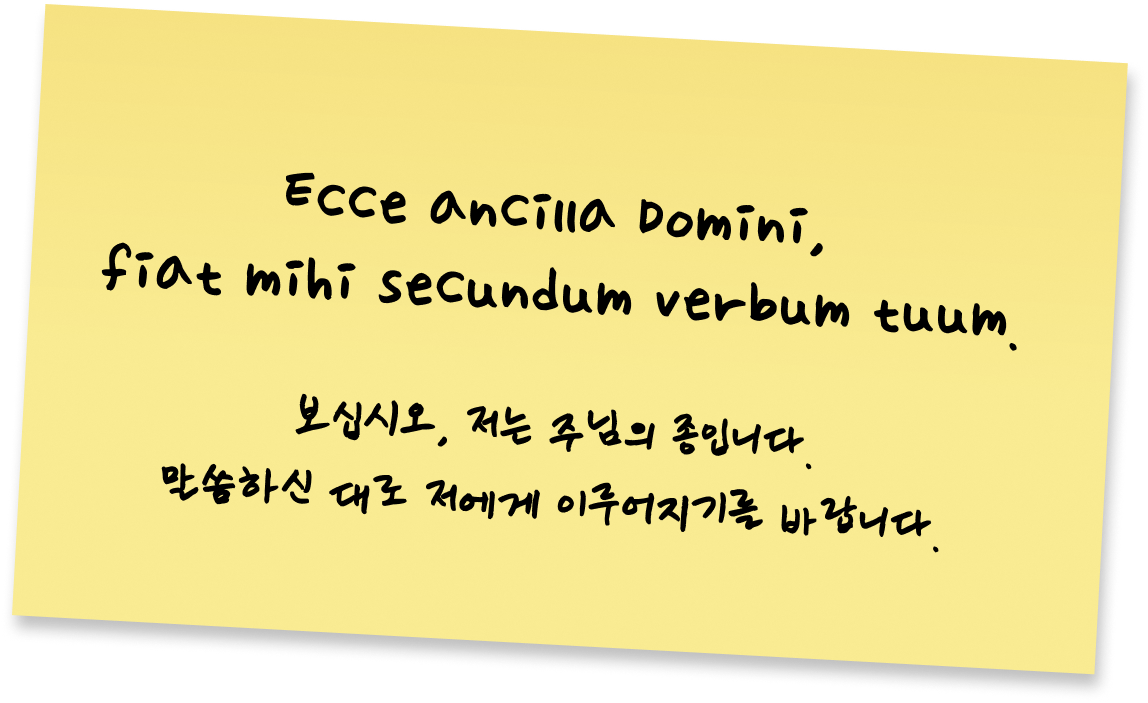
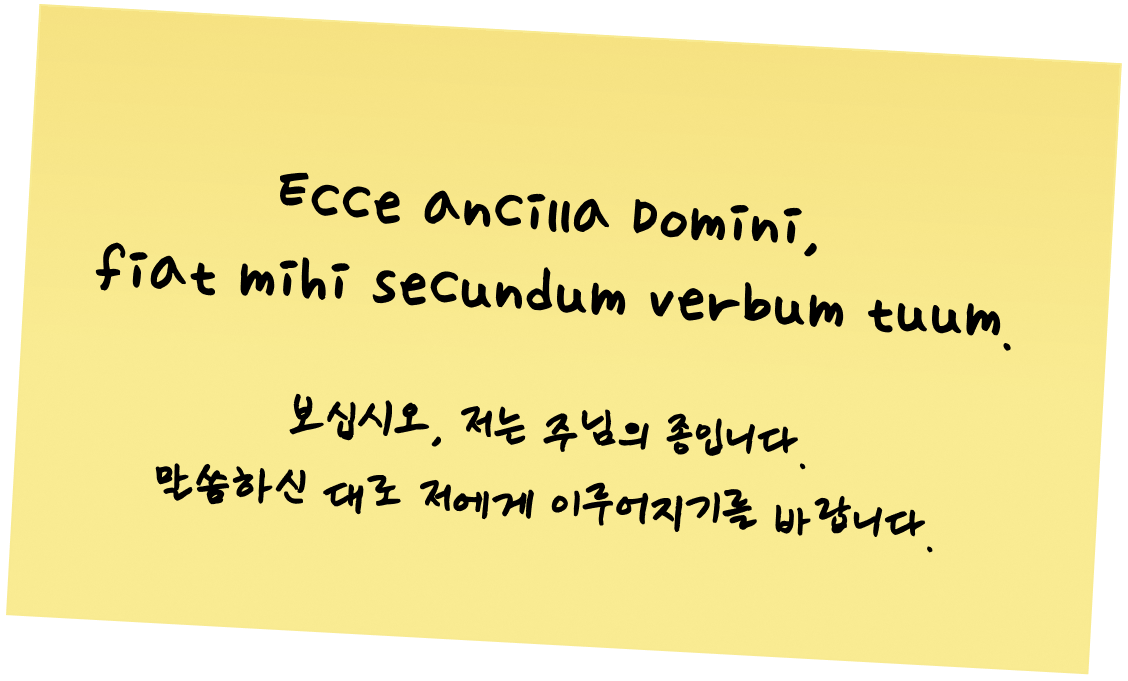
인물 카드 노란 메모지 전부 클릭해서 크게 보기, 확대 메모지 배경 투명화
- 측천무후·잔 다르크·장희빈·마리 앙투아네트·엘리자베트 카드의 노란 메모지도
  성모 마리아처럼 누르면 화면 가운데에 크게 뜨고, 아무 곳이나 누르면 닫힘
- 확대 메모지 이미지 배경(흰 여백·뒤 종이)을 투명하게 처리, 그림자는 CSS로
- 메모지 확대 공용 스타일을 folder-note-zoom.css 로 분리

Claude-Session: https://claude.ai/code/session_018NkL9VWcfC3Cdt4P5LoYh1

diff --git a/folder-women-people-royal-2.html b/folder-women-people-royal-2.html
@@ -9,6 +9,7 @@
     <link rel="stylesheet" href="https://cdn.jsdelivr.net/gh/orioncactus/pretendard@v1.3.9/dist/web/static/pretendard.min.css" />
 
     <link rel="stylesheet" href="folder-women-people-royal.css" />
+    <link rel="stylesheet" href="folder-note-zoom.css" />
     <link rel="stylesheet" href="glitch-effect.css" />
     <link rel="stylesheet" href="fonts.css" />
     <link rel="stylesheet" href="cursor.css" />
@@ -65,6 +66,13 @@
           src="images/folder-women-people-royal/card-marie-antoinette@2x.png?v=4"
           alt="마리 앙투아네트 자료 카드"
         />
+        <!-- 카드 아래 노란 메모지: 누르면 크게 보인다 -->
+        <button
+          type="button"
+          class="note-hotspot note-hotspot--marie-antoinette"
+          data-note-zoom="noteMarieOverlay"
+          aria-label="마리 앙투아네트 카드 메모지 크게 보기"
+        ></button>
         <a
           class="page-turn page-turn--prev"
           href="folder-women-people-royal.html"
@@ -78,11 +86,28 @@
           src="images/folder-women-people-royal/card-elisabeth@2x.png?v=4"
           alt="엘리자베트 자료 카드"
         />
+        <!-- 카드 아래 노란 메모지: 누르면 크게 보인다 -->
+        <button
+          type="button"
+          class="note-hotspot note-hotspot--elisabeth"
+          data-note-zoom="noteElisabethOverlay"
+          aria-label="엘리자베트 카드 메모지 크게 보기"
+        ></button>
       </div>
 
+      <!-- 마리 앙투아네트 카드 메모지 확대. 아무 곳이나 누르면 닫힌다 -->
+      <div class="note-overlay note-overlay--marie-antoinette" id="noteMarieOverlay" aria-hidden="true">
+        <img src="images/folder-women-people-royal/note-marie-antoinette@2x.png" alt="Qu'ils mangent de la brioche ! 그럼 그들에게 브리오슈를 먹으라고 하세요!" />
+      </div>
+
+      <!-- 엘리자베트 카드 메모지 확대. 아무 곳이나 누르면 닫힌다 -->
+      <div class="note-overlay note-overlay--elisabeth" id="noteElisabethOverlay" aria-hidden="true">
+        <img src="images/folder-women-people-royal/note-elisabeth@2x.png" alt="Ich bin eine Möwe von keinem Land, Meine Heimat nenne ich keinen Strand. 나는 어느 땅에도 속하지 않은 갈매기, 어떤 해안도 고향이라 부르지 않는다." />
+      </div>
     </div>
 
     <script src="glitch-effect.js"></script>
     <script src="folder-scale.js"></script>
+    <script src="folder-note-zoom.js"></script>
   </body>
 </html>

diff --git a/folder-women-people-religion.css b/folder-women-people-religion.css
@@ -220,20 +220,11 @@ body {
   left: 547.5px;
 }
 
-/* ---------- 카드 위 메모지: 누르면 크게 ---------- */
-/* 성모 마리아 카드(wrap 641x908, 카드는 12.5px 안쪽에서 시작) 안의 노란 메모지 자리.
+/* ---------- 카드 위 메모지: 누르면 크게 (공용 스타일은 folder-note-zoom.css) ----------
+   클릭 영역은 카드 이미지 속 노란 메모지 자리(카드 wrap 기준 좌표).
+   확대 이미지 폭은 모든 메모지가 같은 배율로 보이도록 맞춘 값. */
+/* 성모 마리아 카드(wrap 641x908, 카드는 12.5px 안쪽에서 시작) 안의 메모지.
    Figma 메모지 Frame 330: 카드 기준 x 49.36, y 682, 278.96 x 167.58 */
-.note-hotspot {
-  position: absolute;
-  z-index: 5;
-  margin: 0;
-  padding: 0;
-  background: none;
-  border: none;
-  cursor: pointer;
-  pointer-events: auto; /* wrap은 pointer-events: none 이라 여기서만 다시 켠다 */
-}
-
 .note-hotspot--ecce {
   left: 61.86px;
   top: 694.5px;
@@ -241,24 +232,18 @@ body {
   height: 167.58px;
 }
 
-.note-overlay {
-  position: absolute;
-  z-index: 50;
-  inset: 0;
-  display: none;
-  align-items: center;
-  justify-content: center;
-  background: rgba(0, 0, 0, 0.6);
-  cursor: pointer;
+/* 잔 다르크 카드(religion-2 왼쪽) 서명 메모지 */
+.note-hotspot--jeanne-darc {
+  left: 414.5px;
+  top: 715.5px;
+  width: 166px;
+  height: 161.5px;
 }
 
-.note-overlay.is-open {
-  display: flex;
+.note-overlay--ecce img {
+  width: 1081px;
 }
 
-.note-overlay img {
-  display: block;
-  width: 1100px;
-  height: auto;
-  filter: drop-shadow(8px 8px 10px rgba(0, 0, 0, 0.35));
+.note-overlay--jeanne-darc img {
+  width: 665px;
 }

diff --git a/folder-women-people-politics.html b/folder-women-people-politics.html
@@ -9,6 +9,7 @@
     <link rel="stylesheet" href="https://cdn.jsdelivr.net/gh/orioncactus/pretendard@v1.3.9/dist/web/static/pretendard.min.css" />
 
     <link rel="stylesheet" href="folder-women-people-politics.css" />
+    <link rel="stylesheet" href="folder-note-zoom.css" />
     <link rel="stylesheet" href="glitch-effect.css" />
     <link rel="stylesheet" href="fonts.css" />
     <link rel="stylesheet" href="cursor.css" />
@@ -74,12 +75,24 @@
           src="images/folder-women-people-politics/card-wuzetian@2x.png?v=4"
           alt="측천무후 자료 카드"
         />
+        <!-- 카드 아래 노란 메모지: 누르면 크게 보인다 -->
+        <button
+          type="button"
+          class="note-hotspot note-hotspot--wuzetian"
+          data-note-zoom="noteWuzetianOverlay"
+          aria-label="측천무후 카드 메모지 크게 보기"
+        ></button>
         <a class="page-turn page-turn--next" href="folder-women-people-politics-2.html" aria-label="다음 장"></a>
       </div>
 
+      <!-- 측천무후 카드 메모지 확대. 아무 곳이나 누르면 닫힌다 -->
+      <div class="note-overlay note-overlay--wuzetian" id="noteWuzetianOverlay" aria-hidden="true">
+        <img src="images/folder-women-people-politics/note-wuzetian@2x.png" alt="말이 말을 듣지 않으면 쇠채찍으로 때리고, 그래도 듣지 않으면 쇠망치로 머리를 내리치며, 끝까지 복종하지 않으면 비수로 목을 베어버리면 됩니다" />
+      </div>
     </div>
 
     <script src="glitch-effect.js"></script>
     <script src="folder-scale.js"></script>
+    <script src="folder-note-zoom.js"></script>
   </body>
 </html>

diff --git a/folder-women-people-royal.html b/folder-women-people-royal.html
@@ -9,6 +9,7 @@
     <link rel="stylesheet" href="https://cdn.jsdelivr.net/gh/orioncactus/pretendard@v1.3.9/dist/web/static/pretendard.min.css" />
 
     <link rel="stylesheet" href="folder-women-people-royal.css" />
+    <link rel="stylesheet" href="folder-note-zoom.css" />
     <link rel="stylesheet" href="glitch-effect.css" />
     <link rel="stylesheet" href="fonts.css" />
     <link rel="stylesheet" href="cursor.css" />
@@ -65,6 +66,13 @@
           src="images/folder-women-people-royal/card-janghuibin@2x.png?v=4"
           alt="장희빈 자료 카드"
         />
+        <!-- 카드 아래 노란 메모지: 누르면 크게 보인다 -->
+        <button
+          type="button"
+          class="note-hotspot note-hotspot--janghuibin"
+          data-note-zoom="noteJanghuibinOverlay"
+          aria-label="장희빈 카드 메모지 크게 보기"
+        ></button>
         <a
           class="page-turn page-turn--prev"
           href="folder-women-people-politics-2.html"
@@ -84,9 +92,14 @@
         ></a>
       </div>
 
+      <!-- 장희빈 카드 메모지 확대. 아무 곳이나 누르면 닫힌다 -->
+      <div class="note-overlay note-overlay--janghuibin" id="noteJanghuibinOverlay" aria-hidden="true">
+        <img src="images/folder-women-people-royal/note-janghuibin@2x.png" alt="내 폐비의 절을 받고 말리라" />
+      </div>
     </div>
 
     <script src="glitch-effect.js"></script>
     <script src="folder-scale.js"></script>
+    <script src="folder-note-zoom.js"></script>
   </body>
 </html>

diff --git a/folder-women-people-religion-2.html b/folder-women-people-religion-2.html
@@ -12,6 +12,7 @@
     />
 
     <link rel="stylesheet" href="folder-women-people-religion.css" />
+    <link rel="stylesheet" href="folder-note-zoom.css" />
     <link rel="stylesheet" href="glitch-effect.css" />
     <link rel="stylesheet" href="fonts.css" />
     <link rel="stylesheet" href="cursor.css" />
@@ -78,6 +79,13 @@
             src="images/folder-women-people-religion/card-jeanne-darc@2x.png?v=4"
             alt="잔 다르크 자료 카드"
           />
+          <!-- 카드 아래 노란 메모지: 누르면 크게 보인다 -->
+          <button
+            type="button"
+            class="note-hotspot note-hotspot--jeanne-darc"
+            data-note-zoom="noteJeanneOverlay"
+            aria-label="잔 다르크 카드 메모지 크게 보기"
+          ></button>
           <a
             class="page-turn page-turn--prev"
             href="folder-women-people-religion.html"
@@ -98,9 +106,15 @@
           ></a>
         </div>
       </div>
+
+      <!-- 잔 다르크 카드 메모지 확대. 아무 곳이나 누르면 닫힌다 -->
+      <div class="note-overlay note-overlay--jeanne-darc" id="noteJeanneOverlay" aria-hidden="true">
+        <img src="images/folder-women-people-religion/note-jeanne-darc@2x.png" alt="Jehanne — 잔 다르크의 서명" />
+      </div>
     </div>
 
     <script src="glitch-effect.js"></script>
     <script src="folder-scale.js"></script>
+    <script src="folder-note-zoom.js"></script>
   </body>
 </html>

diff --git a/folder-women-people-religion.html b/folder-women-people-religion.html
@@ -12,6 +12,7 @@
     />
 
     <link rel="stylesheet" href="folder-women-people-religion.css" />
+    <link rel="stylesheet" href="folder-note-zoom.css" />
     <link rel="stylesheet" href="glitch-effect.css" />
     <link rel="stylesheet" href="fonts.css" />
     <link rel="stylesheet" href="cursor.css" />
@@ -110,8 +111,8 @@
       </div>
 
       <!-- 메모지 확대 (Figma 2602:938). 아무 곳이나 누르면 닫힌다 -->
-      <div class="note-overlay" id="noteEcceOverlay" aria-hidden="true">
-        <img src="images/folder-women-people-religion/note-ecce-ancilla@4x.png" alt="Ecce ancilla Domini, fiat mihi secundum verbum tuum. 보십시오, 저는 주님의 종입니다. 말씀하신 대로 저에게 이루어지기를 바랍니다." />
+      <div class="note-overlay note-overlay--ecce" id="noteEcceOverlay" aria-hidden="true">
+        <img src="images/folder-women-people-religion/note-ecce-ancilla@4x.png?v=2" alt="Ecce ancilla Domini, fiat mihi secundum verbum tuum. 보십시오, 저는 주님의 종입니다. 말씀하신 대로 저에게 이루어지기를 바랍니다." />
       </div>
     </div>
 

diff --git a/folder-note-zoom.css b/folder-note-zoom.css
@@ -1,0 +1,35 @@
+/* 카드 위 노란 메모지(포스트잇) 확대 보기 — folder-note-zoom.js 와 같이 쓴다.
+   - .note-hotspot: 카드 wrap(pointer-events: none) 안에 얹는 투명 클릭 영역. 위치는 각 페이지 CSS에서 지정
+   - .note-overlay: 어두운 배경 + 큰 메모지 이미지. 메모지 PNG는 배경이 투명이라 그림자는 여기서 준다.
+     이미지 폭은 각 페이지 CSS의 .note-overlay--이름 img 에서 지정 */
+.note-hotspot {
+  position: absolute;
+  z-index: 5;
+  margin: 0;
+  padding: 0;
+  background: none;
+  border: none;
+  cursor: pointer;
+  pointer-events: auto; /* wrap은 pointer-events: none 이라 여기서만 다시 켠다 */
+}
+
+.note-overlay {
+  position: absolute;
+  z-index: 50;
+  inset: 0;
+  display: none;
+  align-items: center;
+  justify-content: center;
+  background: rgba(0, 0, 0, 0.6);
+  cursor: pointer;
+}
+
+.note-overlay.is-open {
+  display: flex;
+}
+
+.note-overlay img {
+  display: block;
+  height: auto;
+  filter: drop-shadow(8px 8px 10px rgba(0, 0, 0, 0.35));
+}

diff --git a/folder-women-people-royal.css b/folder-women-people-royal.css
@@ -211,3 +211,40 @@ body {
 .page-turn--next {
   left: 535px;
 }
+
+/* ---------- 카드 위 메모지: 누르면 크게 (공용 스타일은 folder-note-zoom.css) ----------
+   클릭 영역은 카드 이미지 속 노란 메모지 자리(카드 wrap 기준 좌표).
+   확대 이미지 폭은 모든 메모지가 같은 배율로 보이도록 맞춘 값. */
+/* wrap 611x878 기준. 장희빈: 1페이지 왼쪽 / 마리 앙투아네트: 2페이지 왼쪽 / 엘리자베트: 2페이지 오른쪽 */
+.note-hotspot--janghuibin {
+  left: 134.88px;
+  top: 703.95px;
+  width: 220.67px;
+  height: 141.66px;
+}
+
+.note-hotspot--marie-antoinette {
+  left: 346.01px;
+  top: 675.42px;
+  width: 216.38px;
+  height: 133.44px;
+}
+
+.note-hotspot--elisabeth {
+  left: 44.32px;
+  top: 657.05px;
+  width: 263.56px;
+  height: 189.04px;
+}
+
+.note-overlay--janghuibin img {
+  width: 920px;
+}
+
+.note-overlay--marie-antoinette img {
+  width: 899px;
+}
+
+.note-overlay--elisabeth img {
+  width: 1088px;
+}

diff --git a/folder-women-people-politics.css b/folder-women-people-politics.css
@@ -223,3 +223,18 @@ body {
 .page-turn--next {
   left: 535px;
 }
+
+/* ---------- 카드 위 메모지: 누르면 크게 (공용 스타일은 folder-note-zoom.css) ----------
+   클릭 영역은 카드 이미지 속 노란 메모지 자리(카드 wrap 기준 좌표).
+   확대 이미지 폭은 모든 메모지가 같은 배율로 보이도록 맞춘 값. */
+/* 측천무후 카드(1페이지 오른쪽, wrap 611x878) */
+.note-hotspot--wuzetian {
+  left: 41.46px;
+  top: 696.21px;
+  width: 242.59px;
+  height: 141.66px;
+}
+
+.note-overlay--wuzetian img {
+  width: 1000px;
+}
